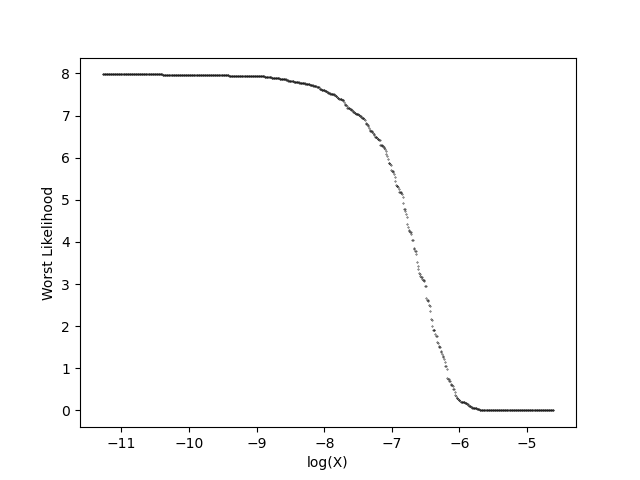
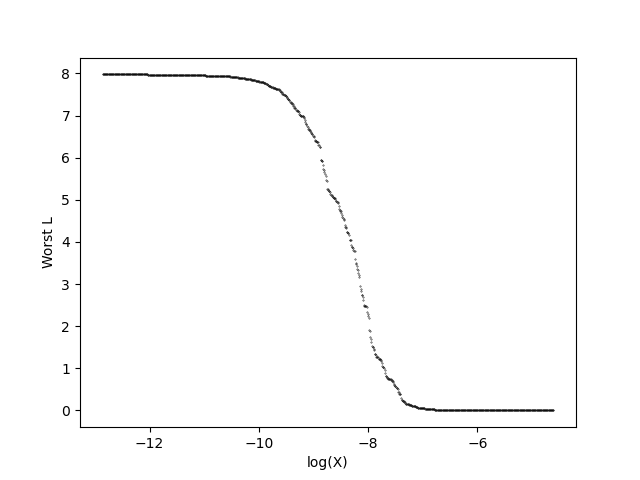
general review

diff --git a/nested_sampling.py b/nested_sampling.py
@@ -130,7 +130,7 @@ def normal_proposal(x, dim, logLmin, survivor):
                 shrink = 0.98
             counter = 0
         zeros = np.zeros(dim)
-        diag = np.diag(np.ones(dim)) - np.diag(np.zeros(dim) + shrink)
+        diag = np.diag(np.ones(dim))  + np.diag(np.ones(dim) - shrink)
         new_line = np.zeros(dim+2, dtype=np.float64)
         new_line[:dim] = survivor + np.random.multivariate_normal(zeros, diag)
 
@@ -252,8 +252,9 @@ if __name__ == "__main__":
             plt.figure()
             plt.scatter(prior_mass[:len(likelihood_worst)], likelihood_worst, s=0.1, c='k')
             plt.xlabel('log(X)')
-            plt.ylabel('Worst Likelihood')
+            plt.ylabel('Worst L')
             plt.savefig(f'results/images/{args.proposal}/worst_likelihood_{d}.png')
+            plt.fill_between(prior_mass[:len(likelihood_worst)],likelihood_worst, color='k', alpha=0.3)
 
             plt.figure()
             plt.scatter(np.arange(len(t_resample)),t_resample, s=0.5, c='k')
